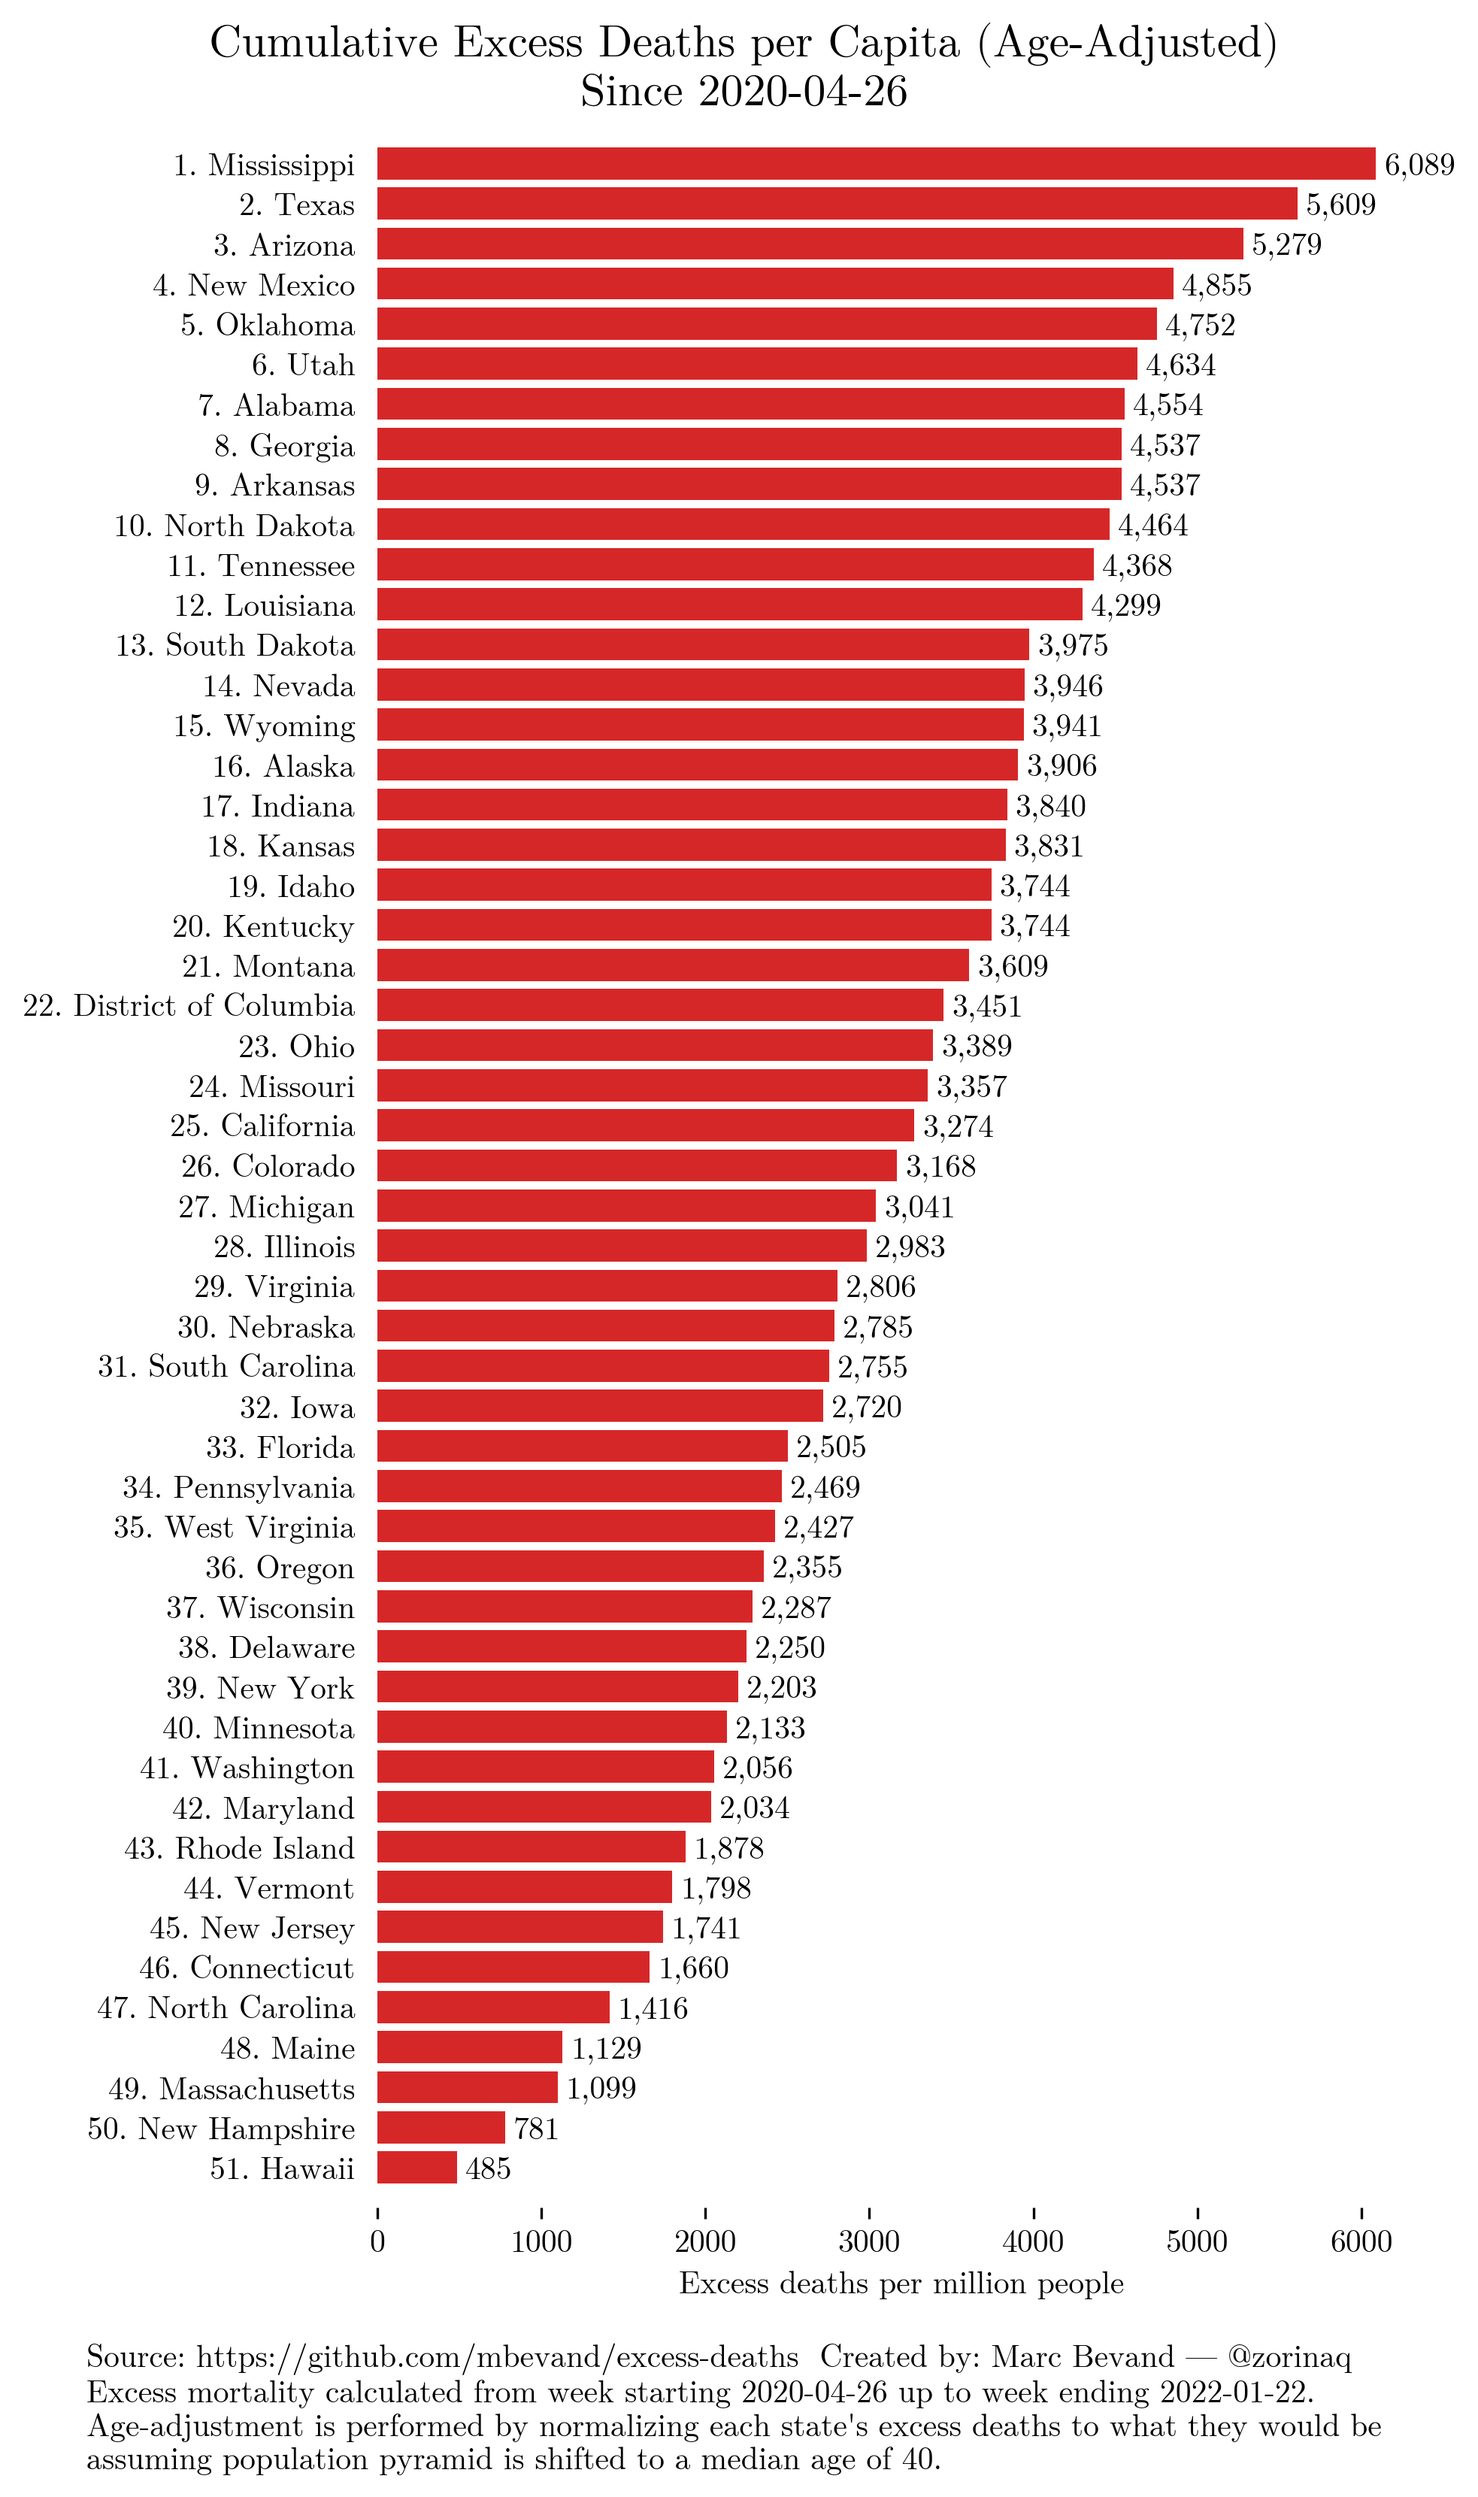
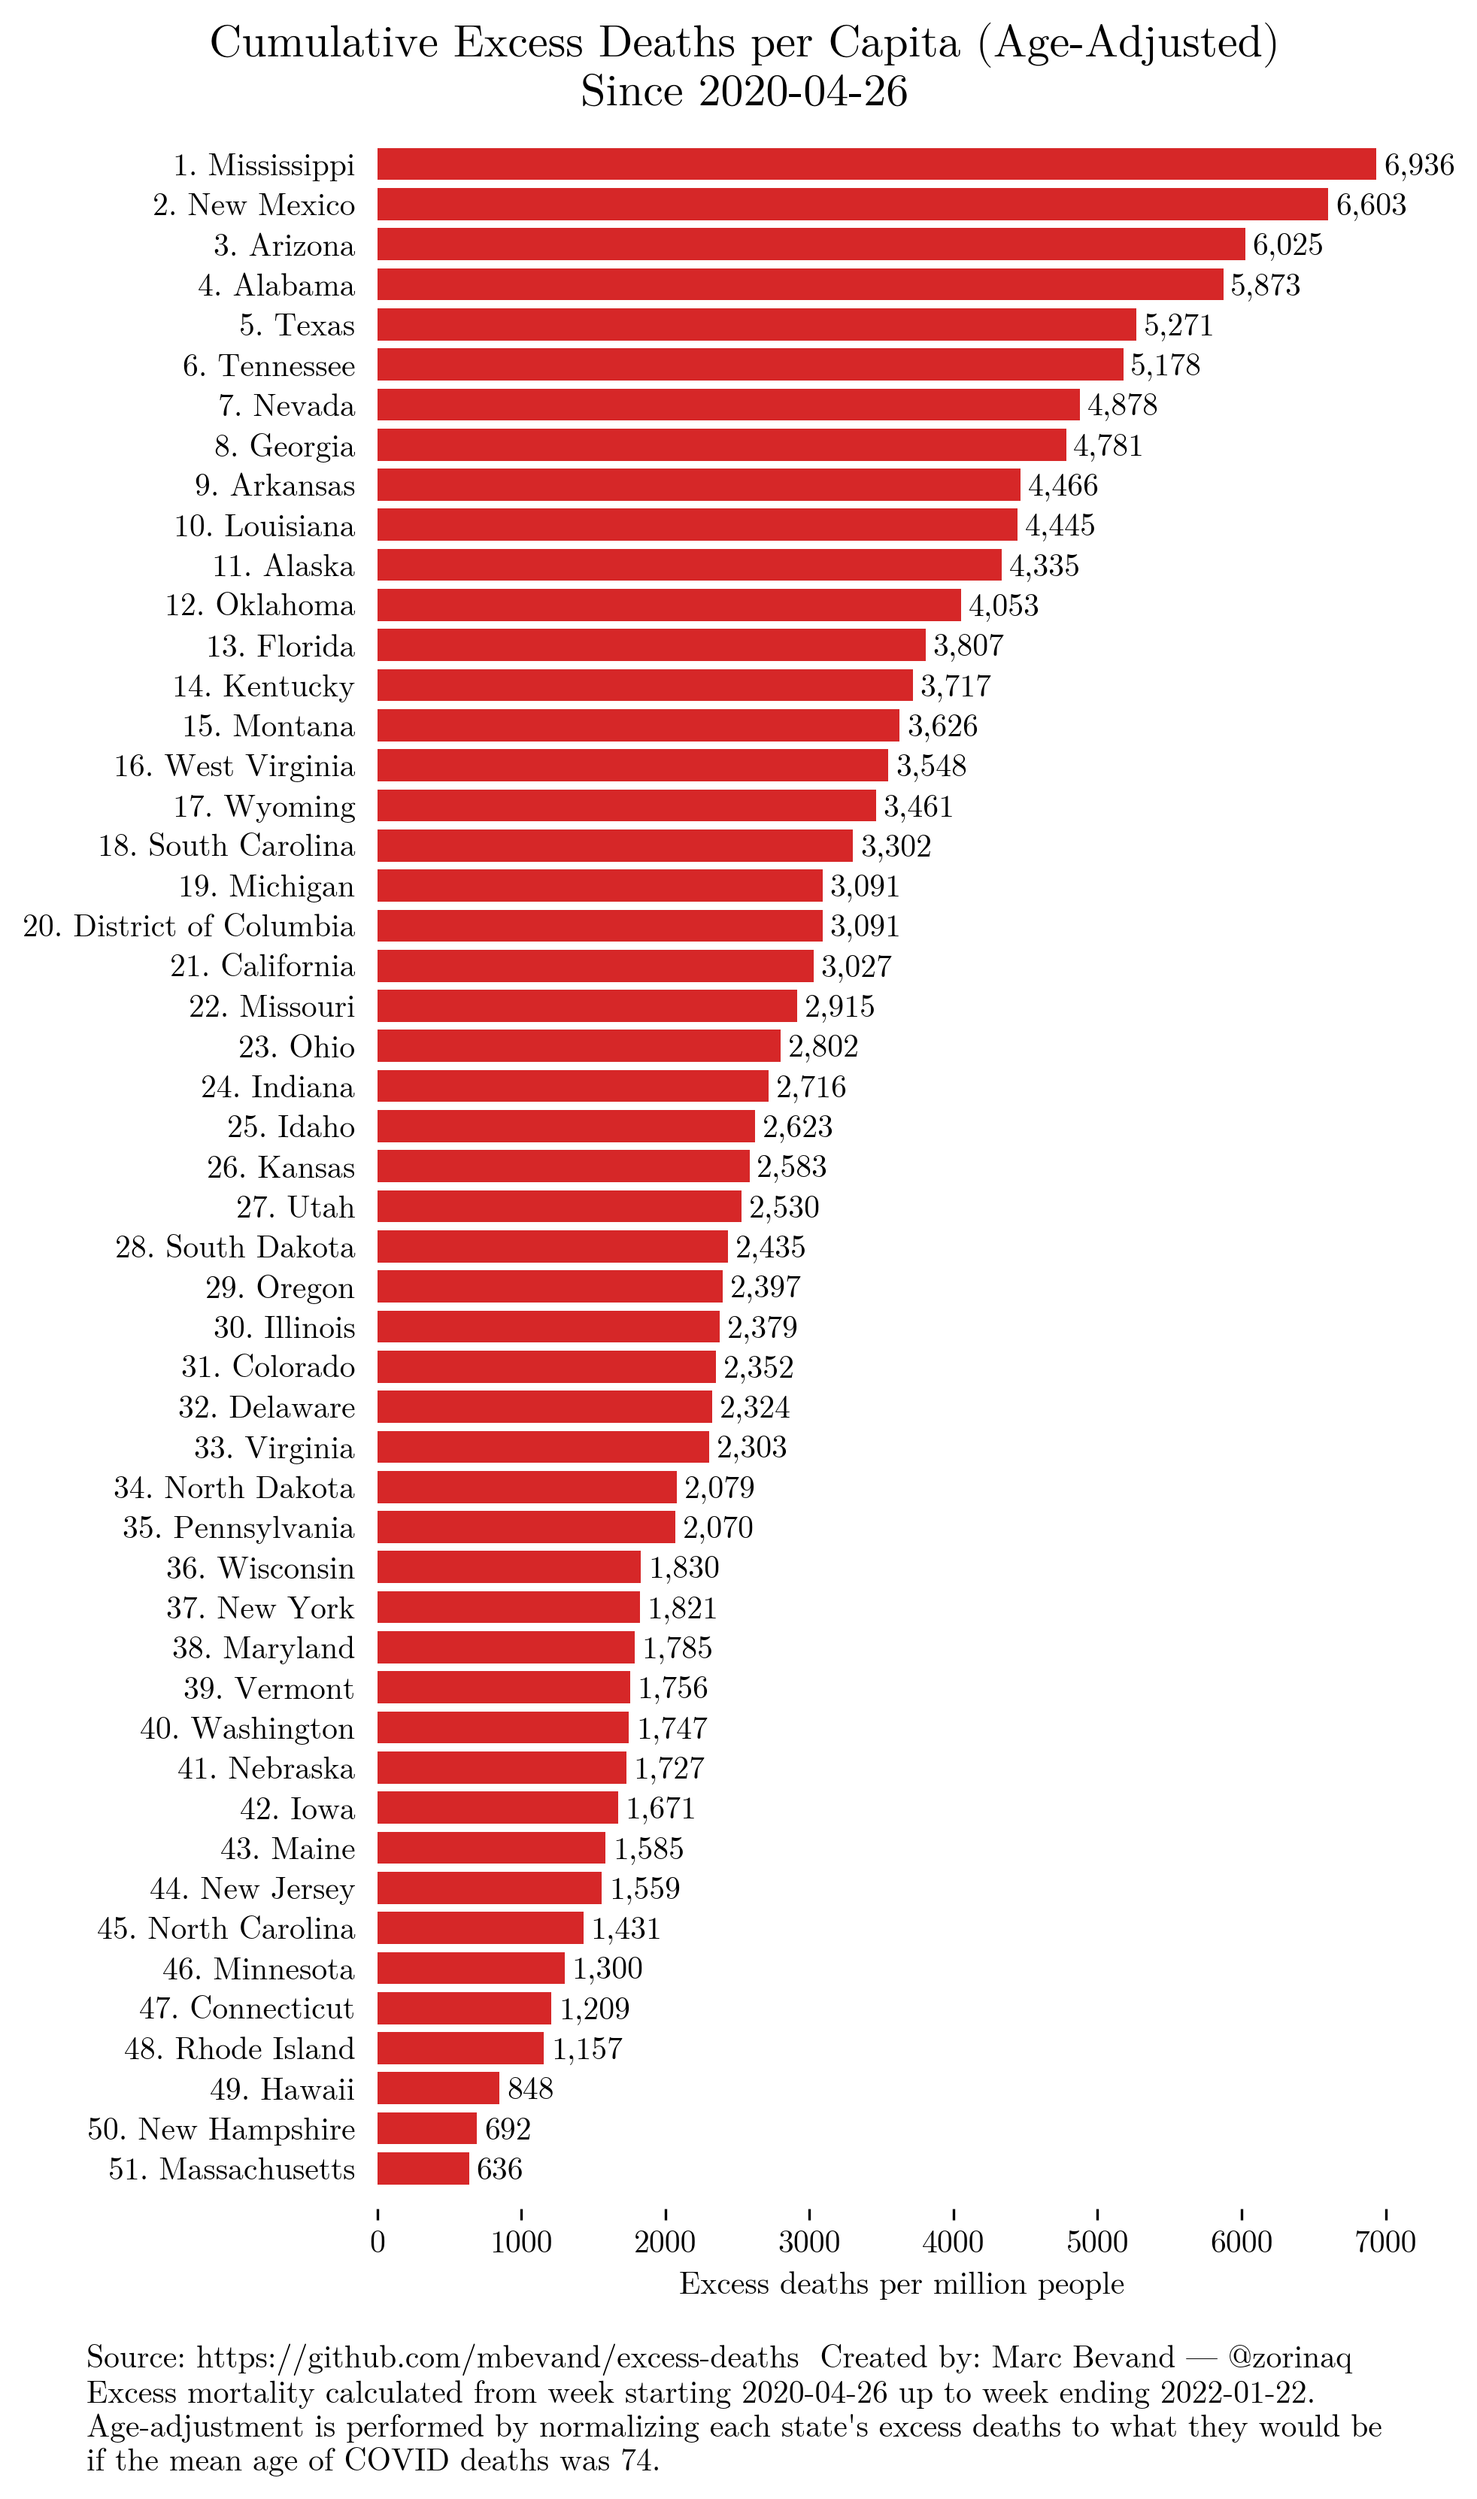
add calc_age_of_deaths.py, significantly improve age-adjustment

diff --git a/process.py b/process.py
@@ -76,60 +76,61 @@ pop = {
         'Wisconsin':5822434,
         'Wyoming':578759,
 }
-# U.S. Census Bureau’s median age estimates for US states and DC, as of 2019.
-# https://www.statsamerica.org/sip/rank_list.aspx?rank_label=pop46&ct=S09
-age = {
-        'Alabama': 39.5,
-        'Alaska': 35.3,
-        'Arizona': 38.5,
-        'Arkansas': 38.6,
-        'California': 37.3,
-        'Colorado': 37.3,
-        'Connecticut': 41.2,
-        'Delaware': 41.4,
-        'District of Columbia': 34.4,
-        'Florida': 42.7,
-        'Georgia': 37.3,
-        'Hawaii': 40.0,
-        'Idaho': 37.2,
-        'Illinois': 38.8,
-        'Indiana': 38.0,
-        'Iowa': 38.6,
-        'Kansas': 37.3,
-        'Kentucky': 39.2,
-        'Louisiana': 37.8,
-        'Maine': 45.0,
-        'Maryland': 39.2,
-        'Massachusetts': 39.7,
-        'Michigan': 40.1,
-        'Minnesota': 38.5,
-        'Mississippi': 38.3,
-        'Missouri': 39.1,
-        'Montana': 40.2,
-        'Nebraska': 36.9,
-        'Nevada': 38.5,
-        'New Hampshire': 43.1,
-        'New Jersey': 40.2,
-        'New Mexico': 38.6,
-        'New York': 39.4,
-        'North Carolina': 39.2,
-        'North Dakota': 35.4,
-        'Ohio': 39.6,
-        'Oklahoma': 37.1,
-        'Oregon': 39.9,
-        'Pennsylvania': 40.9,
-        'Rhode Island': 40.3,
-        'South Carolina': 40.1,
-        'South Dakota': 37.6,
-        'Tennessee': 39.1,
-        'Texas': 35.2,
-        'Utah': 31.5,
-        'Vermont': 43.0,
-        'Virginia': 38.7,
-        'Washington': 37.9,
-        'West Virginia': 43.0,
-        'Wisconsin': 40.0,
-        'Wyoming': 38.7,
+
+# Mean age of COVID deaths per state, from calc_age_of_deaths.py
+mean_age_of_covid_deaths = {
+  # Data as of 02/02/2022
+  'Alaska': 68.34178966789668,
+  'Hawaii': 68.86920384951881,
+  'District of Columbia': 69.4120260663507,
+  'Texas': 69.77048197876437,
+  'New Mexico': 69.77611940298507,
+  'Nevada': 70.55204635623303,
+  'Georgia': 70.819417646027,
+  'Utah': 71.06218792555606,
+  'Mississippi': 71.10283873214908,
+  'Alabama': 71.16428022010533,
+  'Arizona': 71.28610181936853,
+  'Louisiana': 71.49201244080017,
+  'Tennessee': 71.53674313150174,
+  'California': 72.0213282905052,
+  'South Carolina': 72.43555114879649,
+  'Oklahoma': 72.56206202475026,
+  'Arkansas': 72.74416461916462,
+  'Florida': 72.85448518252257,
+  'North Carolina': 73.10407133387504,
+  'Kentucky': 73.2652649346837,
+  'Washington': 73.39714642582629,
+  'West Virginia': 73.51073591484676,
+  'Oregon': 73.73815566835871,
+  'Wyoming': 73.89344262295081,
+  'Michigan': 73.94847208687177,
+  'Colorado': 74.03740680435341,
+  'Montana': 74.15531982267258,
+  'Missouri': 74.39512072434607,
+  'Maryland': 74.39806140098011,
+  'Idaho': 74.46816857206905,
+  'Virginia': 74.51392229973538,
+  'Illinois': 74.87844972790879,
+  'Kansas': 74.9191400304414,
+  'Delaware': 75.10275339185954,
+  'New York': 75.14926272347988,
+  'Indiana': 75.180810488677,
+  'New Jersey': 75.21695672624647,
+  'Nebraska': 75.2907514450867,
+  'Ohio': 75.34768699469936,
+  'Maine': 75.8846518237802,
+  'Wisconsin': 76.05126945745806,
+  'South Dakota': 76.10080793242747,
+  'North Dakota': 76.41914191419141,
+  'Pennsylvania': 76.51833937444489,
+  'Minnesota': 77.05173008887738,
+  'Iowa': 77.07603181922988,
+  'Vermont': 77.21774193548387,
+  'Connecticut': 78.11192201694396,
+  'New Hampshire': 78.20733363512902,
+  'Massachusetts': 78.72602616956443,
+  'Rhode Island': 78.74841571609632,
 }
 
 def excess_for(df, state):
@@ -170,7 +171,7 @@ def age_adjust(state):
     # The IFR of COVID-19 increases approximately 1.115-fold with each year of
     # increase in age
     ifr_inc = 1.115
-    return ifr_inc**(40 - age[state])
+    return ifr_inc**(74 - mean_age_of_covid_deaths[state])
 
 def chart(res, last):
     # "Tableau 20" colors
@@ -198,8 +199,8 @@ def chart(res, last):
     ax.set_title(f'Cumulative Excess Deaths per Capita{xtra}\n'
             f'Since {start_date}', fontsize='x-large', x=.35)
     xtra = 'Age-adjustment is performed by normalizing each state\'s '\
-            'excess deaths to what they would be\nassuming population '\
-            'pyramid is shifted to a median age of 40.' if do_age_adjust else ''
+            'excess deaths to what they would be\nif the mean '\
+            'age of COVID deaths was 74.' if do_age_adjust else ''
     fig.text(-.09, .06,
             'Source: https://github.com/mbevand/excess-deaths  '
             'Created by: Marc Bevand — @zorinaq\n'

diff --git a/calc_age_of_deaths.py b/calc_age_of_deaths.py
@@ -1,0 +1,64 @@
+#!/usr/bin/python
+
+import math
+import numpy as np
+import pandas as pd
+
+mean_age_of_covid_deaths = {}
+
+def calc_state(state, df):
+    if state == 'New York City':
+        return
+    elif state == 'New York':
+        states = ['New York', 'New York City']
+    else:
+        states = [state]
+    # Map age groups to average age in this group
+    groups = {
+            'Under 1 year': 0.5,
+            '1-4 years':    3,
+            '5-14 years':   10,
+            '15-24 years':  20,
+            '25-34 years':  30,
+            '35-44 years':  40,
+            '45-54 years':  50,
+            '55-64 years':  60,
+            '65-74 years':  70,
+            '75-84 years':  80,
+            '85 years and over': 90,
+            # For correctness, 90 should be replaced with the mean age
+            # of the person of age 85+
+            }
+    sum_ages = 0
+    sum_deaths = 0
+    for _s in states:
+        for c, m in groups.items():
+            deaths = float(df[(df['State'] == _s) & (df['Age Group'] == c)]
+                    ['COVID-19 Deaths'])
+            if math.isnan(deaths):
+                # Cells with counts between 1-9 are typically suppressed (NaN),
+                # so we assume 5
+                # Note: assuming 0 or 5 has insignificant effect on the mean
+                # age of deaths
+                deaths = 5
+            sum_ages += m * deaths
+            sum_deaths += deaths
+    mean_age_of_covid_deaths[state] = sum_ages / sum_deaths
+
+def main():
+    df = pd.read_csv('Provisional_COVID-19_Deaths_by_Sex_and_Age.csv')
+    df = df[df['Group'] == 'By Total']
+    df = df[df['Sex'] == 'All Sexes']
+    df = df[df['State'] != 'United States']
+    df = df[df['State'] != 'Puerto Rico']
+    for state in set(df['State']):
+        calc_state(state, df)
+    as_of = list(set(df['Data As Of']))
+    assert(len(as_of) == 1)
+    as_of = as_of[0]
+    print("mean_age_of_covid_deaths = {\n  # Data as of", as_of)
+    for (a, b) in sorted(mean_age_of_covid_deaths.items(), key=lambda f: f[1]):
+        print(f'  \'{a}\': {b},')
+    print('}')
+
+main()

diff --git a/README.md b/README.md
@@ -1,4 +1,4 @@
-*Updated: 01 Feb 2022*
+*Updated: 02 Feb 2022*
 
 Author: Marc Bevand
 
@@ -33,7 +33,7 @@ deaths and the average expected number of deaths from the US CDC (column
 We add up these differences to calculate the final cumulative excess deaths
 per capita.
 
-Then we perform age-adjustment. First we determine by how much the IFR of COVID-19
+Then we perform age-adjustment. Firstly we determine by how much the IFR of COVID-19
 increases with each year of age. As per [O’Driscoll et al.: Age-specific mortality and immunity patterns of SARS-CoV-2](https://www.nature.com/articles/s41586-020-2918-0), in [Supplementary information](https://static-content.springer.com/esm/art%3A10.1038%2Fs41586-020-2918-0/MediaObjects/41586_2020_2918_MOESM1_ESM.pdf) (table S3):
 
 * IFR for ages 30-34 = 0.024%
@@ -42,10 +42,13 @@ increases with each year of age. As per [O’Driscoll et al.: Age-specific morta
 On this 45-year range, the IFR increases by: (3.203 / 0.024)^(1 / 45) =
 1.115-fold with each year of increase. We term this factor **ifr_inc**.
 
-Secondly, each state is adjusted by normalizing its
-excess deaths to what it would be if the median age was 40 (an arbitrary
-value). We do this by mutiplying excess death by:
+Secondly, for each state, we determine the mean age of COVID deaths.
+This is calculated from the [CDC dataset "Provisional COVID-19 Deaths by Sex and Age"](https://data.cdc.gov/NCHS/Provisional-COVID-19-Deaths-by-Sex-and-Age/9bhg-hcku) by the script [calc_age_of_deaths.py](calc_age_of_deaths.py).
 
-ifr_inc ^ (40 - state_median_age)
+Thirdly, each state is adjusted by normalizing its excess deaths to what it
+would be if the mean age of COVID deaths was 74 (an arbitrary value).
+Concretely, excess deaths are simply mutiplied by:
 
-States population and median age data is from the [US Census Bureau 2019 estimates](https://www2.census.gov/programs-surveys/popest/datasets/2010-2019/state/detail/SCPRC-EST2019-18+POP-RES.csv).
+ifr_inc ^ (74 - mean_age_of_covid_deaths)
+
+Finally, to calculates excess mortality "per capita", states population is obtained from the [US Census Bureau 2019 estimates](https://www2.census.gov/programs-surveys/popest/datasets/2010-2019/state/detail/SCPRC-EST2019-18+POP-RES.csv).
